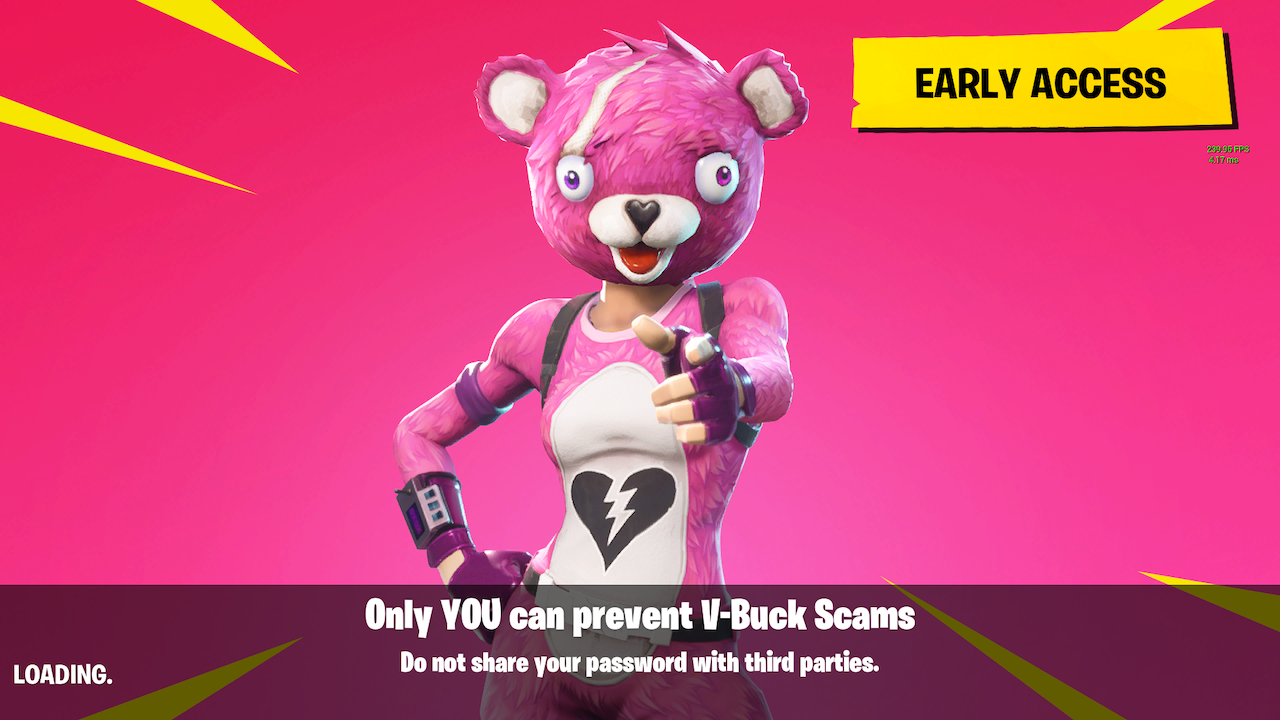
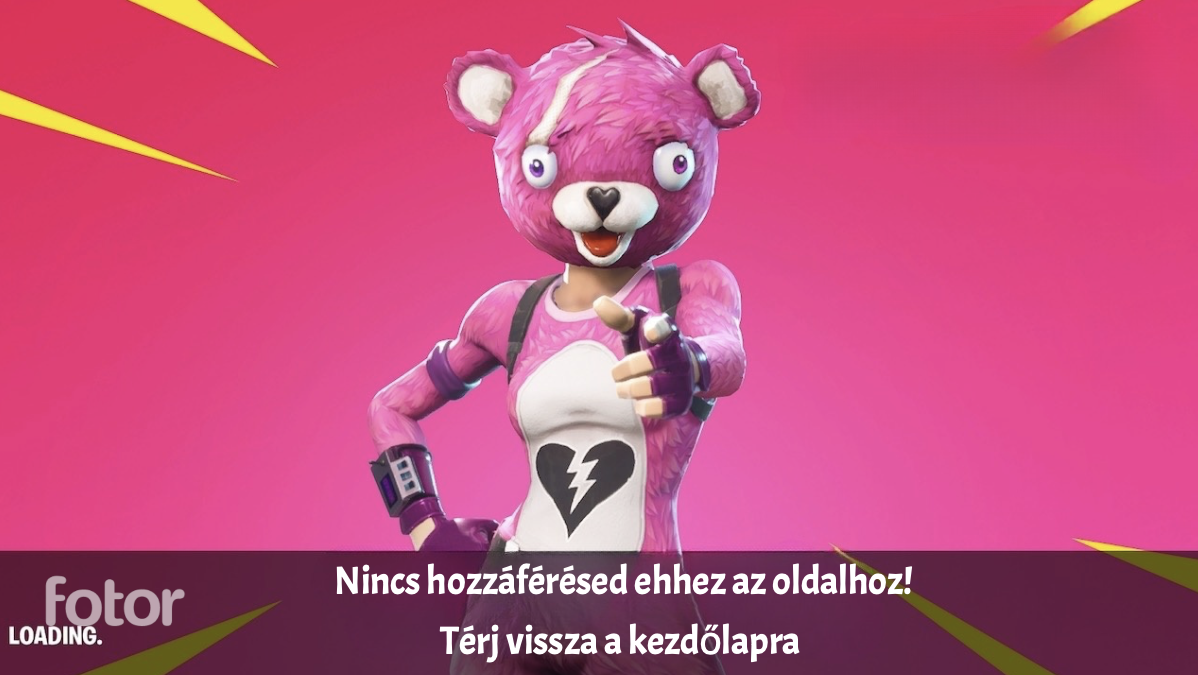
noaccess szöveg megvan

Changed region(s): [[0.0, 0.0, 1.0, 1.0], [0.2162, 0.8711, 0.2471, 0.9022]]

diff --git a/dev_nyilvantartas/resources/views/user-img.blade.php b/dev_nyilvantartas/resources/views/user-img.blade.php
@@ -1,10 +1,33 @@
-@extends('layouts.app')
+<!DOCTYPE html>
+<html lang="en">
+<head>
+    <meta charset="UTF-8">
+    <meta name="viewport" content="width=device-width, initial-scale=1.0">
+    <title>STOP RIGHT THERE YOU CRIMINAL SCUM</title>
+    <style>
+        body {
+            display: flex;
+            align-items: center;
+            justify-content: center;
+            height: 100vh;
+            margin: 0;
+        }
 
-<x-app-layout>
+        .centered-image {
+            text-align: center;
+        }
+        .centered-image img {
+            width: 85%; /* Set the width to 50% to scale down the image */
+            height: auto; /* Maintain the aspect ratio */
+        }
+    </style>
+</head>
+<body>
+    <div class="centered-image">
+        <x-single-image :image="url('images/noaccess.png')" />
+    </div>
+</body>
+</html>
 
 
-    <x-single-image :image="url('images/noaccess.png')" />
 
-
-
-</x-app-layout>
